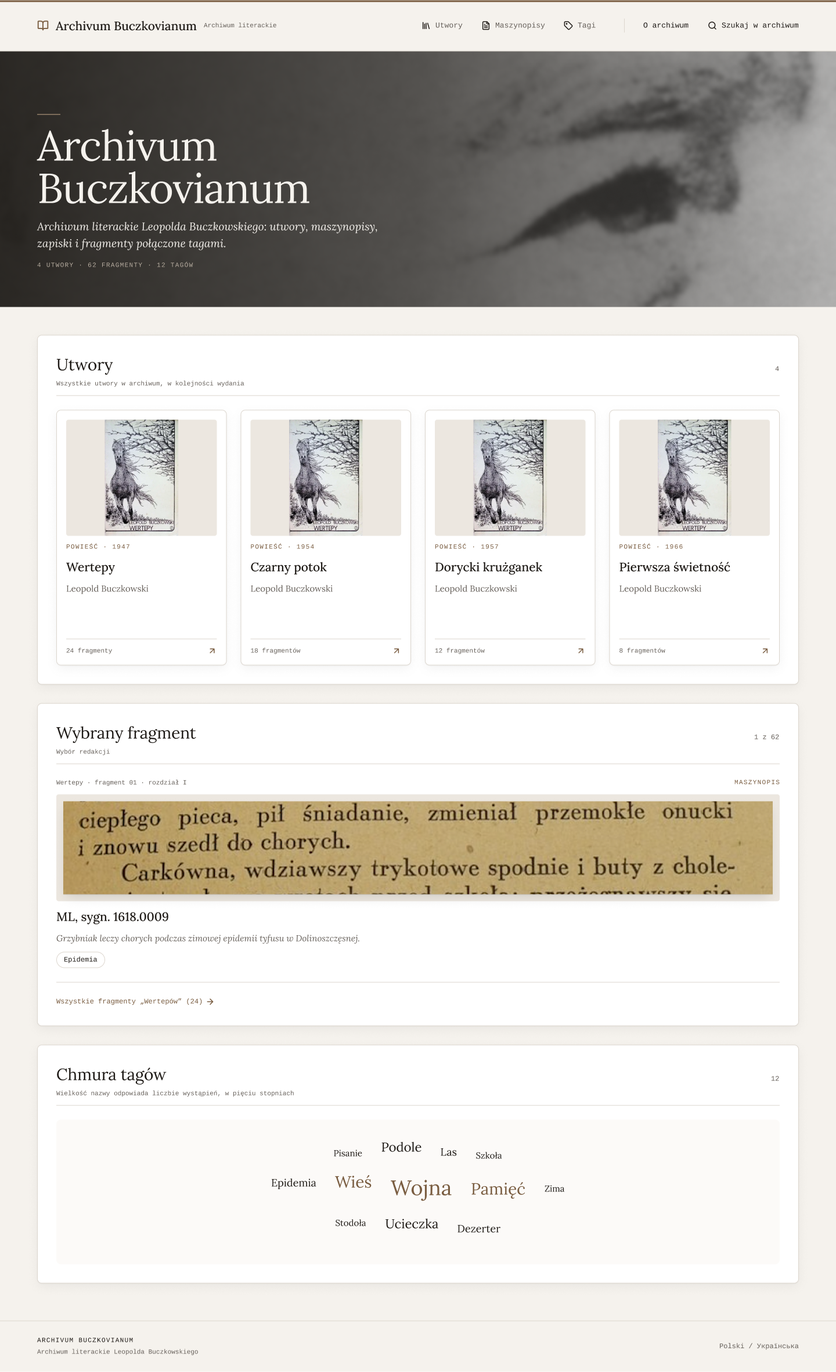
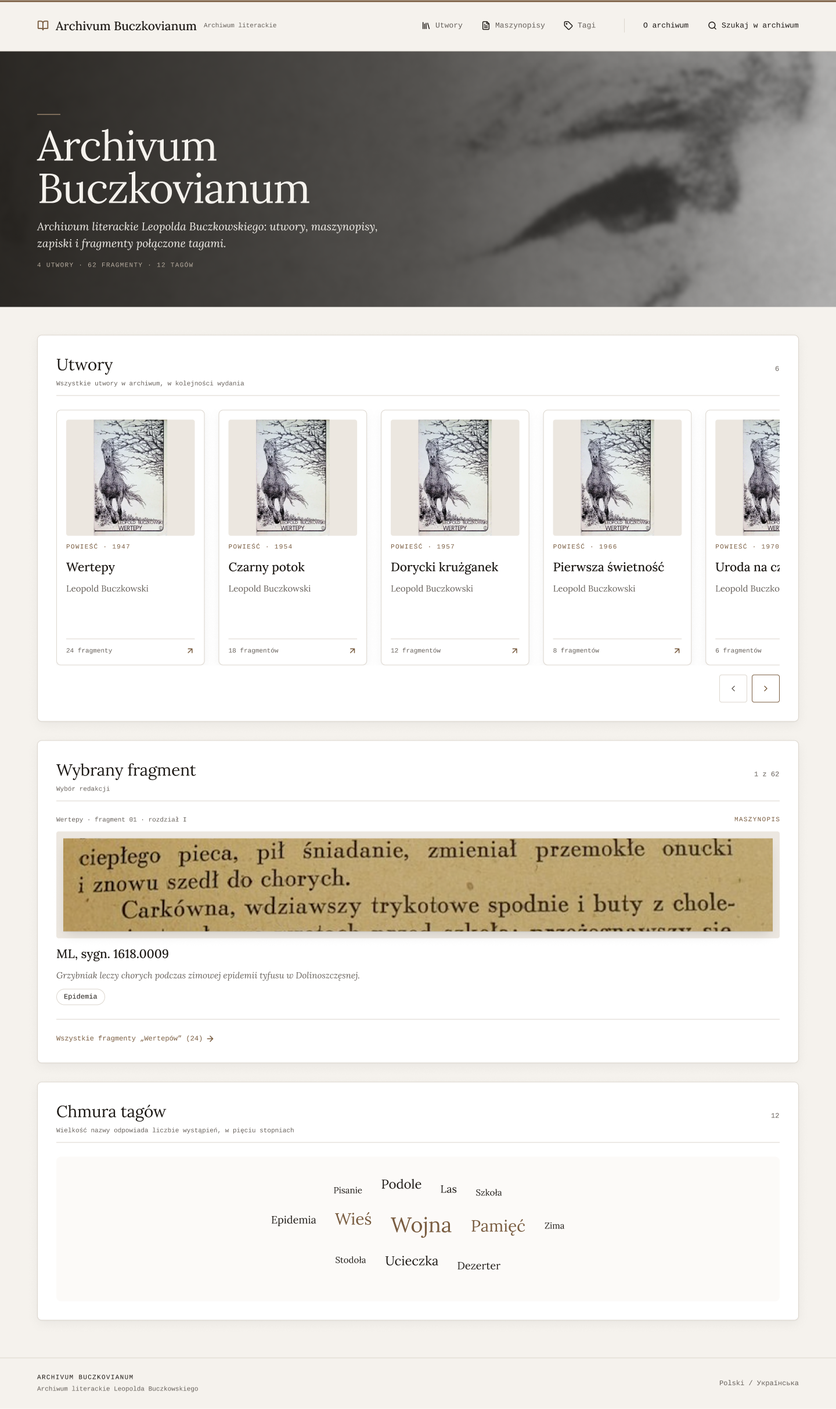
ARC-20: works carousel on the home page
The home page's works are one row that scrolls sideways, with 1.5 cards
in view on a phone and 4.5 on a desktop (2.5 from sm, 3.5 from lg), so
the cut-off card shows there are more. Arrows under the row scroll by
the whole cards in view; each is disabled at its end of the row, and
both are hidden when every card fits. The works list keeps its grid.

Design re-exported from Figma: the carousel and its arrows on
"Strona główna", and a new "Strona główna (mobile)" screen.

diff --git a/frontend/src/components/WorkCarousel.tsx b/frontend/src/components/WorkCarousel.tsx
@@ -1,0 +1,109 @@
+import { useEffect, useRef, useState } from "react";
+
+import { ChevronLeftIcon, ChevronRightIcon } from "@/components/icons";
+import { type Work, WorkCard } from "@/components/WorkCard";
+import { copy } from "@/copy/pl";
+import { cn } from "@/lib/utils";
+
+const ARROW = cn(
+  "flex size-48 items-center justify-center rounded-sm border border-accent-border bg-card text-accent-icon",
+  "transition-colors duration-150 ease-out enabled:hover:bg-accent motion-reduce:transition-none",
+  "focus-visible:outline-2 focus-visible:outline-offset-2 focus-visible:outline-ring",
+  "disabled:border-border disabled:text-muted-foreground",
+);
+
+/**
+ * "Karuzela utworów" in design/screens/strona-glowna.md (ARC-20): one row of work cards that
+ * scrolls sideways, with 1.5 cards in view on a phone and 4.5 on a desktop, so the cut-off card
+ * shows there are more. The arrows below scroll by the whole cards in view; each is disabled at
+ * its end of the row, and both are hidden when every card fits. The list's padding, taken back
+ * by negative margins, keeps the hover lift and the focus ring inside the scroll area; at the
+ * bottom it reaches the section card's edge, so the hover shadow is not cut short.
+ */
+export function WorkCarousel({ works }: { works: Work[] }) {
+  const listRef = useRef<HTMLUListElement>(null);
+  const [edges, setEdges] = useState({ start: true, end: true });
+
+  useEffect(() => {
+    const list = listRef.current;
+    if (list === null) {
+      return;
+    }
+    const update = () => {
+      setEdges({
+        start: list.scrollLeft <= 0,
+        end: list.scrollLeft + list.clientWidth >= list.scrollWidth - 1,
+      });
+    };
+    update();
+    list.addEventListener("scroll", update, { passive: true });
+    window.addEventListener("resize", update);
+    return () => {
+      list.removeEventListener("scroll", update);
+      window.removeEventListener("resize", update);
+    };
+  }, [works]);
+
+  const scroll = (direction: 1 | -1) => {
+    const list = listRef.current;
+    const card = list?.firstElementChild;
+    if (list == null || card == null) {
+      return;
+    }
+    const gap = parseFloat(getComputedStyle(list).columnGap) || 0;
+    const step = card.getBoundingClientRect().width + gap;
+    const cards = Math.max(1, Math.floor(list.clientWidth / step));
+    list.scrollBy({ left: direction * cards * step });
+  };
+
+  return (
+    <div className="flex flex-col gap-16">
+      <ul
+        ref={listRef}
+        data-slot="work-carousel"
+        className={cn(
+          "flex snap-x snap-mandatory scroll-smooth gap-(--gap) overflow-x-auto motion-reduce:scroll-auto",
+          "-mx-4 -mt-8 -mb-card-mobile scroll-px-4 px-4 pt-8 pb-card-mobile md:-mb-card md:pb-card",
+          "[--gap:var(--spacing-16)] [--visible:1.5] sm:[--visible:2.5] md:[--gap:var(--spacing-24)] lg:[--visible:3.5] xl:[--visible:4.5]",
+        )}
+      >
+        {works.map((work) => (
+          // Each card takes its share of the row, so the next one always shows by half.
+          <li
+            key={work.slug}
+            className="shrink-0 snap-start basis-[calc((100%-(var(--visible)-0.5)*var(--gap))/var(--visible))]"
+          >
+            <WorkCard work={work} />
+          </li>
+        ))}
+      </ul>
+      {!(edges.start && edges.end) && (
+        // Relative, so the arrows paint over the list's bottom padding, kept for the hover shadow.
+        <div className="relative flex justify-end gap-8">
+          <button
+            type="button"
+            className={ARROW}
+            aria-label={copy.workCarousel.previous}
+            disabled={edges.start}
+            onClick={() => {
+              scroll(-1);
+            }}
+          >
+            <ChevronLeftIcon className="size-16" />
+          </button>
+          <button
+            type="button"
+            className={ARROW}
+            aria-label={copy.workCarousel.next}
+            disabled={edges.end}
+            onClick={() => {
+              scroll(1);
+            }}
+          >
+            <ChevronRightIcon className="size-16" />
+          </button>
+        </div>
+      )}
+    </div>
+  );
+}

diff --git a/frontend/src/components/WorkCarousel.test.tsx b/frontend/src/components/WorkCarousel.test.tsx
@@ -1,0 +1,92 @@
+import { fireEvent, render, screen } from "@testing-library/react";
+import { MemoryRouter } from "react-router";
+import { describe, expect, it, vi } from "vitest";
+
+import type { Work } from "@/components/WorkCard";
+import { WorkCarousel } from "@/components/WorkCarousel";
+import { axeViolations } from "@/test/render";
+
+const WORKS: Work[] = ["Wertepy", "Czarny potok", "Dorycki krużganek"].map((title, index) => ({
+  slug: `utwor-${String(index)}`,
+  title,
+  year: 1947 + index,
+  cover_image: "",
+  cover_image_alt: "",
+  fragment_count: 0,
+}));
+
+function renderCarousel() {
+  return render(
+    <MemoryRouter>
+      <WorkCarousel works={WORKS} />
+    </MemoryRouter>,
+  );
+}
+
+/** jsdom lays nothing out, so the row's size, scroll position and card width are set here. */
+function layOut(list: HTMLElement, { scrollLeft = 0, clientWidth = 450 } = {}) {
+  Object.defineProperty(list, "scrollWidth", { configurable: true, value: 1000 });
+  Object.defineProperty(list, "clientWidth", { configurable: true, value: clientWidth });
+  list.scrollLeft = scrollLeft;
+  const card = list.firstElementChild;
+  if (card !== null) {
+    vi.spyOn(card, "getBoundingClientRect").mockReturnValue(new DOMRect(0, 0, 200, 440));
+  }
+  const scrollBy = vi.fn();
+  list.scrollBy = scrollBy;
+  fireEvent.scroll(list);
+  return scrollBy;
+}
+
+describe("WorkCarousel", () => {
+  it("ARC-20: the works are one scrolling row, 1.5 cards in view on a phone and 4.5 on a desktop", () => {
+    renderCarousel();
+
+    const list = screen.getByRole("list");
+    expect(list).toHaveClass("flex", "overflow-x-auto", "snap-x", "snap-mandatory");
+    expect(list).toHaveClass("[--visible:1.5]", "xl:[--visible:4.5]");
+    for (const item of screen.getAllByRole("listitem")) {
+      expect(item).toHaveClass("shrink-0", "snap-start");
+    }
+  });
+
+  it("ARC-20: shows no arrows when every work fits", () => {
+    renderCarousel();
+
+    expect(screen.queryByRole("button")).not.toBeInTheDocument();
+  });
+
+  it("ARC-20: at the start the previous arrow is disabled and the next one scrolls by the whole cards in view", async () => {
+    const { container } = renderCarousel();
+    const scrollBy = layOut(screen.getByRole("list"));
+
+    expect(screen.getByRole("button", { name: "Poprzednie utwory" })).toBeDisabled();
+    fireEvent.click(screen.getByRole("button", { name: "Następne utwory" }));
+    // Two 200 px cards fit in 450 px.
+    expect(scrollBy).toHaveBeenCalledWith({ left: 400 });
+    expect(await axeViolations(container)).toEqual([]);
+  });
+
+  it("ARC-20: at the end the next arrow is disabled and the previous one scrolls back", () => {
+    renderCarousel();
+    const scrollBy = layOut(screen.getByRole("list"), { scrollLeft: 550 });
+
+    expect(screen.getByRole("button", { name: "Następne utwory" })).toBeDisabled();
+    fireEvent.click(screen.getByRole("button", { name: "Poprzednie utwory" }));
+    expect(scrollBy).toHaveBeenCalledWith({ left: -400 });
+  });
+
+  it("ARC-20: a narrow row scrolls by one card, and the arrows follow a window resize", () => {
+    renderCarousel();
+    const list = screen.getByRole("list");
+    const scrollBy = layOut(list, { scrollLeft: 100, clientWidth: 150 });
+
+    fireEvent.click(screen.getByRole("button", { name: "Następne utwory" }));
+    expect(scrollBy).toHaveBeenCalledWith({ left: 200 });
+
+    Object.defineProperty(list, "clientWidth", { configurable: true, value: 1000 });
+    list.scrollLeft = 0;
+    fireEvent(window, new Event("resize"));
+    expect(screen.queryByRole("button")).not.toBeInTheDocument();
+  });
+});

diff --git a/frontend/src/pages/HomePage.tsx b/frontend/src/pages/HomePage.tsx
@@ -8,7 +8,7 @@ import { RichText } from "@/components/RichText";
 import { SectionHeader } from "@/components/SectionHeader";
 import { TagCloud } from "@/components/TagCloud";
 import { Card } from "@/components/ui/card";
-import { WorkCard } from "@/components/WorkCard";
+import { WorkCarousel } from "@/components/WorkCarousel";
 import { copy, formatCount, nouns, previewCount } from "@/copy/pl";
 import { api } from "@/lib/api";
 import { browseUrl, NEW_SEARCH } from "@/lib/search";
@@ -116,13 +116,7 @@ export function HomePage() {
                   count={String(data.works.length)}
                   description={copy.home.worksDescription}
                 />
-                <ul className="grid auto-rows-fr grid-cols-1 gap-24 sm:grid-cols-2 lg:grid-cols-4">
-                  {data.works.map((work) => (
-                    <li key={work.slug}>
-                      <WorkCard work={work} />
-                    </li>
-                  ))}
-                </ul>
+                <WorkCarousel works={data.works} />
               </Card>
             )}
             {data.featured !== null && (

diff --git a/frontend/src/components/icons.tsx b/frontend/src/components/icons.tsx
@@ -69,6 +69,16 @@ export function ImageIcon(props: IconProps) {
   );
 }
 
+/** design/assets/icons/wstecz.svg */
+export function ChevronLeftIcon(props: IconProps) {
+  return <Icon {...props} paths={["M10 12L6 8L10 4"]} />;
+}
+
+/** design/assets/icons/dalej.svg */
+export function ChevronRightIcon(props: IconProps) {
+  return <Icon {...props} paths={["M6 12L10 8L6 4"]} />;
+}
+
 /** design/assets/icons/strzalka-prawo.svg */
 export function ArrowRightIcon(props: IconProps) {
   return <Icon {...props} paths={["M3.33337 8H12.6667", "M8 3.33334L12.6667 8L8 12.6667"]} />;

diff --git a/frontend/src/copy/pl.ts b/frontend/src/copy/pl.ts
@@ -86,6 +86,11 @@ export const copy = {
     /** The placeholder board for a work without a cover (plan D25, design/rules.md). */
     coverPlaceholder: "[Okładka]",
   },
+  /** The arrows of the works carousel on the home page (ARC-20). */
+  workCarousel: {
+    previous: "Poprzednie utwory",
+    next: "Następne utwory",
+  },
   /** The home page (US-RA-01). */
   home: {
     works: "Utwory",

diff --git a/design/screens/strona-glowna-mobile.md b/design/screens/strona-glowna-mobile.md
@@ -1,0 +1,63 @@
+# Strona główna (mobile)
+
+Viewport: mobile, 390px wide. Preview: `../previews/screens/strona-glowna-mobile.png`
+
+- box "Strona główna (mobile)" · flex-column · gap 0px · 390px × 2186px · bg var(--color-bg-page)
+  - **Nagłówek serwisu [Rozmiar=Mobile]** {Rozmiar=“Mobile”} · flex-row · padding 0px var(--layout-page-margin-mobile) 0px var(--layout-page-margin-mobile) · justify space-between · align center · w fill, h 64px · bg var(--color-bg-page) · border-bottom 1px var(--color-border-subtle)
+  - box "Nagłówek strony głównej" · flex-row · gap 0px · padding var(--space-64) var(--layout-page-margin-mobile) var(--space-24) var(--layout-page-margin-mobile) · align end · w fill, h hug · bg linear-gradient(#211e1af0 0%, #211e1ab8 50%, #211e1a33 100%) over image(assets/images/naglowek-strony-glownej-642bf583.*, crop) over var(--color-bg-inverse)
+    - box "Wprowadzenie" · flex-column · gap var(--space-16) · w fill, h hug
+      - box "Ornament" · w 40px, h 1px · bg var(--color-border-accent-inverse) · overflow hidden
+      - text "Tytuł" · w fill, h hug · .text-lora-tytul-strony-mobile · color var(--color-text-inverse) · “Archivum Buczkovianum”
+      - text "Opis" · w fill, h hug · .text-lora-glosa · color var(--color-text-inverse) · “Archiwum literackie Leopolda Buczkowskiego: utwory, maszynopisy, zapiski i fragmenty połączone tagami.”
+      - text "Statystyki" · w fill, h hug · .text-cousine-etykieta · color var(--color-text-inverse-secondary) · “4 utwory · 62 fragmenty · 12 tagów”
+  - box "Treść" · flex-column · gap var(--space-32) · padding var(--space-24) var(--layout-page-margin-mobile) var(--space-24) var(--layout-page-margin-mobile) · w fill, h hug
+    - box "Utwory" · flex-column · gap var(--space-24) · padding var(--layout-card-padding-mobile) · w fill, h hug · bg var(--color-bg-card) · border 1px var(--color-border-subtle) · radius var(--radius-m) · shadow var(--shadow-karta)
+      - **Nagłówek sekcji** {Pokaż licznik=true, Pokaż opis=true, Opis=“Wszystkie utwory w archiwum, w kolejności wydania”, Licznik=“6”, Tytuł=“Utwory”} · flex-column · gap var(--space-8) · padding 0px 0px var(--space-12) 0px · w fill, h hug · border-bottom 1px var(--color-border-subtle)
+      - box "Karuzela ze strzałkami" · flex-column · gap var(--space-16) · w fill, h hug
+        - box "Karuzela utworów" · flex-row · gap var(--space-16) · w fill, h hug · overflow hidden
+          - **Karta utworu [Stan=Domyślny]** {Fragmenty=“24 fragmenty”, Autor=“Leopold Buczkowski”, Tytuł=“Wertepy”, Kategoria i rok=“Powieść · 1947”, Stan=“Domyślny”} · flex-column · gap var(--space-12) · padding var(--space-16) · w 205.33px, h 440px · bg var(--color-bg-card) · border 1px var(--color-border-subtle) · radius var(--radius-m) · shadow var(--shadow-karta)
+          - **Karta utworu [Stan=Domyślny]** {Fragmenty=“18 fragmentów”, Autor=“Leopold Buczkowski”, Tytuł=“Czarny potok”, Kategoria i rok=“Powieść · 1954”, Stan=“Domyślny”} · flex-column · gap var(--space-12) · padding var(--space-16) · w 205.33px, h 440px · bg var(--color-bg-card) · border 1px var(--color-border-subtle) · radius var(--radius-m) · shadow var(--shadow-karta)
+          - **Karta utworu [Stan=Domyślny]** {Fragmenty=“12 fragmentów”, Autor=“Leopold Buczkowski”, Tytuł=“Dorycki krużganek”, Kategoria i rok=“Powieść · 1957”, Stan=“Domyślny”} · flex-column · gap var(--space-12) · padding var(--space-16) · w 205.33px, h 440px · bg var(--color-bg-card) · border 1px var(--color-border-subtle) · radius var(--radius-m) · shadow var(--shadow-karta)
+          - **Karta utworu [Stan=Domyślny]** {Fragmenty=“8 fragmentów”, Autor=“Leopold Buczkowski”, Tytuł=“Pierwsza świetność”, Kategoria i rok=“Powieść · 1966”, Stan=“Domyślny”} · flex-column · gap var(--space-12) · padding var(--space-16) · w 205.33px, h 440px · bg var(--color-bg-card) · border 1px var(--color-border-subtle) · radius var(--radius-m) · shadow var(--shadow-karta)
+          - **Karta utworu [Stan=Domyślny]** {Fragmenty=“6 fragmentów”, Autor=“Leopold Buczkowski”, Tytuł=“Uroda na czasie”, Kategoria i rok=“Powieść · 1970”, Stan=“Domyślny”} · flex-column · gap var(--space-12) · padding var(--space-16) · w 205.33px, h 440px · bg var(--color-bg-card) · border 1px var(--color-border-subtle) · radius var(--radius-m) · shadow var(--shadow-karta)
+          - **Karta utworu [Stan=Domyślny]** {Fragmenty=“4 fragmenty”, Autor=“Leopold Buczkowski”, Tytuł=“Oficer na nieszczęście”, Kategoria i rok=“Powieść · 1975”, Stan=“Domyślny”} · flex-column · gap var(--space-12) · padding var(--space-16) · w 205.33px, h 440px · bg var(--color-bg-card) · border 1px var(--color-border-subtle) · radius var(--radius-m) · shadow var(--shadow-karta)
+        - box "Strzałki karuzeli" · flex-row · gap var(--space-8) · justify end · w fill, h hug · overflow hidden
+          - box "Strzałka / Wstecz (nieaktywna)" · flex-row · gap 0px · justify center · align center · w 48px, h 48px · bg var(--color-bg-card) · border 1px var(--color-border-subtle) · radius var(--radius-s) · overflow hidden
+            - **Ikona/wstecz** · w 16px, h 16px
+          - box "Strzałka / Dalej" · flex-row · gap 0px · justify center · align center · w 48px, h 48px · bg var(--color-bg-card) · border 1px var(--color-border-accent) · radius var(--radius-s) · overflow hidden
+            - **Ikona/dalej** · w 16px, h 16px
+    - box "Wybrany fragment" · flex-column · gap var(--space-24) · padding var(--layout-card-padding-mobile) · w fill, h hug · bg var(--color-bg-card) · border 1px var(--color-border-subtle) · radius var(--radius-m) · shadow var(--shadow-karta)
+      - **Nagłówek sekcji** {Pokaż licznik=true, Pokaż opis=true, Opis=“Wybór redakcji”, Licznik=“1 z 62”, Tytuł=“Wybrany fragment”} · flex-column · gap var(--space-8) · padding 0px 0px var(--space-12) 0px · w fill, h hug · border-bottom 1px var(--color-border-subtle)
+      - **Fragment / Maszynopis** {Pokaż tagi=true, Opis=“Grzybniak leczy chorych podczas zimowej epidemii tyfusu w Dolinoszczęsnej.”, Sygnatura=“ML, sygn. 1618.0009”, Pozycja=“Wertepy · fragment 01 · rozdział I”} · flex-column · gap var(--space-12) · padding 0px 0px var(--space-24) 0px · w fill, h hug · border-bottom 1px var(--color-border-subtle)
+      - **Link ze strzałką [Stan=Domyślny]** {Etykieta=“Wszystkie fragmenty „Wertepów” (24)”, Stan=“Domyślny”} · flex-row · gap var(--space-4) · align center · w hug, h hug
+    - box "Chmura tagów" · flex-column · gap var(--space-24) · padding var(--layout-card-padding-mobile) · w fill, h hug · bg var(--color-bg-card) · border 1px var(--color-border-subtle) · radius var(--radius-m) · shadow var(--shadow-karta)
+      - **Nagłówek sekcji** {Pokaż licznik=true, Pokaż opis=true, Opis=“Wielkość nazwy odpowiada liczbie wystąpień, w pięciu stopniach”, Licznik=“12”, Tytuł=“Chmura tagów”} · flex-column · gap var(--space-8) · padding 0px 0px var(--space-12) 0px · w fill, h hug · border-bottom 1px var(--color-border-subtle)
+      - box "Chmura" · flex-column · gap var(--space-4) · padding var(--space-16) · align center · w fill, h hug · bg var(--color-bg-subtle) · radius var(--radius-m)
+        - box "Rząd chmury" · flex-row wrap · gap var(--space-16) · justify center · w fill, h hug
+          - box "Tag / Pisanie (3)" · flex-column · gap 0px · padding 16px 0px 8px 0px · w hug, h hug
+            - text "Pisanie" · .text-chmura-tagow-1 · color var(--color-text-primary) · “Pisanie”
+          - box "Tag / Podole (15)" · flex-column · gap 0px · padding 0px 0px 24px 0px · w hug, h hug
+            - text "Podole" · .text-chmura-tagow-3 · color var(--color-text-primary) · “Podole”
+          - box "Tag / Las (6)" · flex-column · gap 0px · padding 12px 0px 12px 0px · w hug, h hug
+            - text "Las" · .text-chmura-tagow-2 · color var(--color-text-primary) · “Las”
+          - box "Tag / Szkoła (3)" · flex-column · gap 0px · padding 20px 0px 4px 0px · w hug, h hug
+            - text "Szkoła" · .text-chmura-tagow-1 · color var(--color-text-primary) · “Szkoła”
+        - box "Rząd chmury" · flex-row wrap · gap var(--space-16) · justify center · w fill, h hug
+          - box "Tag / Epidemia (7)" · flex-column · gap 0px · padding 8px 0px 16px 0px · w hug, h hug
+            - text "Epidemia" · .text-chmura-tagow-2 · color var(--color-text-primary) · “Epidemia”
+          - box "Tag / Wieś (24)" · flex-column · gap 0px · padding 0px 0px 24px 0px · w hug, h hug
+            - text "Wieś" · .text-chmura-tagow-4 · color var(--color-text-accent) · “Wieś”
+          - box "Tag / Wojna (31)" · flex-column · gap 0px · padding 4px 0px 20px 0px · w hug, h hug
+            - text "Wojna" · .text-chmura-tagow-5 · color var(--color-text-accent) · “Wojna”
+          - box "Tag / Pamięć (18)" · flex-column · gap 0px · padding 12px 0px 12px 0px · w hug, h hug
+            - text "Pamięć" · .text-chmura-tagow-4 · color var(--color-text-accent) · “Pamięć”
+          - box "Tag / Zima (2)" · flex-column · gap 0px · padding 20px 0px 4px 0px · w hug, h hug
+            - text "Zima" · .text-chmura-tagow-1 · color var(--color-text-primary) · “Zima”
+        - box "Rząd chmury" · flex-row wrap · gap var(--space-16) · justify center · w fill, h hug
+          - box "Tag / Stodoła (2)" · flex-column · gap 0px · padding 4px 0px 20px 0px · w hug, h hug
+            - text "Stodoła" · .text-chmura-tagow-1 · color var(--color-text-primary) · “Stodoła”
+          - box "Tag / Ucieczka (11)" · flex-column · gap 0px · padding 0px 0px 24px 0px · w hug, h hug
+            - text "Ucieczka" · .text-chmura-tagow-3 · color var(--color-text-primary) · “Ucieczka”
+          - box "Tag / Dezerter (4)" · flex-column · gap 0px · padding 12px 0px 12px 0px · w hug, h hug
+            - text "Dezerter" · .text-chmura-tagow-2 · color var(--color-text-primary) · “Dezerter”
+  - **Stopka [Rozmiar=Mobile]** {Rozmiar=“Mobile”} · flex-column · gap 0px · w fill, h hug · bg var(--color-bg-page) · border-top 1px var(--color-border-subtle)

diff --git a/design/screens/strona-glowna.md b/design/screens/strona-glowna.md
@@ -2,7 +2,7 @@
 
 Viewport: desktop, 1440px wide. Preview: `../previews/screens/strona-glowna.png`
 
-- box "Strona główna" · flex-column · gap 0px · 1440px × 2361px · bg var(--color-bg-page)
+- box "Strona główna" · flex-column · gap 0px · 1440px × 2425px · bg var(--color-bg-page)
   - **Nagłówek serwisu [Rozmiar=Desktop]** {Rozmiar=“Desktop”} · flex-row · padding 0px var(--layout-page-margin) 0px var(--layout-page-margin) · justify space-between · align center · w fill, h 88px · bg var(--color-bg-page) · border-bottom 1px var(--color-border-subtle)
   - box "Nagłówek strony głównej" · flex-row · gap 0px · padding var(--space-64) var(--layout-page-margin) var(--space-64) var(--layout-page-margin) · align end · w fill, h 440px · bg linear-gradient(#211e1af0 0%, #211e1ab8 50%, #211e1a33 100%) over image(assets/images/naglowek-strony-glownej-642bf583.*, crop) over var(--color-bg-inverse)
     - box "Wprowadzenie" · flex-column · gap var(--space-16) · w 640px, h hug
@@ -12,12 +12,20 @@ Viewport: desktop, 1440px wide. Preview: `../previews/screens/strona-glowna.png`
       - text "Statystyki" · w fill, h hug · .text-cousine-etykieta · color var(--color-text-inverse-secondary) · “4 utwory · 62 fragmenty · 12 tagów”
   - box "Treść" · flex-column · gap var(--space-32) · padding var(--space-48) var(--layout-page-margin) var(--space-64) var(--layout-page-margin) · w fill, h hug
     - box "Utwory" · flex-column · gap var(--space-24) · padding var(--layout-card-padding) · w fill, h hug · bg var(--color-bg-card) · border 1px var(--color-border-subtle) · radius var(--radius-m) · shadow var(--shadow-karta)
-      - **Nagłówek sekcji** {Pokaż licznik=true, Pokaż opis=true, Opis=“Wszystkie utwory w archiwum, w kolejności wydania”, Licznik=“4”, Tytuł=“Utwory”} · flex-column · gap var(--space-8) · padding 0px 0px var(--space-12) 0px · w fill, h hug · border-bottom 1px var(--color-border-subtle)
-      - box "Siatka utworów" · flex-row · gap var(--space-24) · w fill, h hug
-        - **Karta utworu [Stan=Domyślny]** {Fragmenty=“24 fragmenty”, Autor=“Leopold Buczkowski”, Tytuł=“Wertepy”, Kategoria i rok=“Powieść · 1947”, Stan=“Domyślny”} · flex-column · gap var(--space-12) · padding var(--space-16) · w fill, h 440px · bg var(--color-bg-card) · border 1px var(--color-border-subtle) · radius var(--radius-m) · shadow var(--shadow-karta)
-        - **Karta utworu [Stan=Domyślny]** {Fragmenty=“18 fragmentów”, Autor=“Leopold Buczkowski”, Tytuł=“Czarny potok”, Kategoria i rok=“Powieść · 1954”, Stan=“Domyślny”} · flex-column · gap var(--space-12) · padding var(--space-16) · w fill, h 440px · bg var(--color-bg-card) · border 1px var(--color-border-subtle) · radius var(--radius-m) · shadow var(--shadow-karta)
-        - **Karta utworu [Stan=Domyślny]** {Fragmenty=“12 fragmentów”, Autor=“Leopold Buczkowski”, Tytuł=“Dorycki krużganek”, Kategoria i rok=“Powieść · 1957”, Stan=“Domyślny”} · flex-column · gap var(--space-12) · padding var(--space-16) · w fill, h 440px · bg var(--color-bg-card) · border 1px var(--color-border-subtle) · radius var(--radius-m) · shadow var(--shadow-karta)
-        - **Karta utworu [Stan=Domyślny]** {Fragmenty=“8 fragmentów”, Autor=“Leopold Buczkowski”, Tytuł=“Pierwsza świetność”, Kategoria i rok=“Powieść · 1966”, Stan=“Domyślny”} · flex-column · gap var(--space-12) · padding var(--space-16) · w fill, h 440px · bg var(--color-bg-card) · border 1px var(--color-border-subtle) · radius var(--radius-m) · shadow var(--shadow-karta)
+      - **Nagłówek sekcji** {Pokaż licznik=true, Pokaż opis=true, Opis=“Wszystkie utwory w archiwum, w kolejności wydania”, Licznik=“6”, Tytuł=“Utwory”} · flex-column · gap var(--space-8) · padding 0px 0px var(--space-12) 0px · w fill, h hug · border-bottom 1px var(--color-border-subtle)
+      - box "Karuzela ze strzałkami" · flex-column · gap var(--space-16) · w fill, h hug
+        - box "Karuzela utworów" · flex-row · gap var(--space-24) · w fill, h hug · overflow hidden
+          - **Karta utworu [Stan=Domyślny]** {Fragmenty=“24 fragmenty”, Autor=“Leopold Buczkowski”, Tytuł=“Wertepy”, Kategoria i rok=“Powieść · 1947”, Stan=“Domyślny”} · flex-column · gap var(--space-12) · padding var(--space-16) · w 255.56px, h 440px · bg var(--color-bg-card) · border 1px var(--color-border-subtle) · radius var(--radius-m) · shadow var(--shadow-karta)
+          - **Karta utworu [Stan=Domyślny]** {Fragmenty=“18 fragmentów”, Autor=“Leopold Buczkowski”, Tytuł=“Czarny potok”, Kategoria i rok=“Powieść · 1954”, Stan=“Domyślny”} · flex-column · gap var(--space-12) · padding var(--space-16) · w 255.56px, h 440px · bg var(--color-bg-card) · border 1px var(--color-border-subtle) · radius var(--radius-m) · shadow var(--shadow-karta)
+          - **Karta utworu [Stan=Domyślny]** {Fragmenty=“12 fragmentów”, Autor=“Leopold Buczkowski”, Tytuł=“Dorycki krużganek”, Kategoria i rok=“Powieść · 1957”, Stan=“Domyślny”} · flex-column · gap var(--space-12) · padding var(--space-16) · w 255.56px, h 440px · bg var(--color-bg-card) · border 1px var(--color-border-subtle) · radius var(--radius-m) · shadow var(--shadow-karta)
+          - **Karta utworu [Stan=Domyślny]** {Fragmenty=“8 fragmentów”, Autor=“Leopold Buczkowski”, Tytuł=“Pierwsza świetność”, Kategoria i rok=“Powieść · 1966”, Stan=“Domyślny”} · flex-column · gap var(--space-12) · padding var(--space-16) · w 255.56px, h 440px · bg var(--color-bg-card) · border 1px var(--color-border-subtle) · radius var(--radius-m) · shadow var(--shadow-karta)
+          - **Karta utworu [Stan=Domyślny]** {Fragmenty=“6 fragmentów”, Autor=“Leopold Buczkowski”, Tytuł=“Uroda na czasie”, Kategoria i rok=“Powieść · 1970”, Stan=“Domyślny”} · flex-column · gap var(--space-12) · padding var(--space-16) · w 255.56px, h 440px · bg var(--color-bg-card) · border 1px var(--color-border-subtle) · radius var(--radius-m) · shadow var(--shadow-karta)
+          - **Karta utworu [Stan=Domyślny]** {Fragmenty=“4 fragmenty”, Autor=“Leopold Buczkowski”, Tytuł=“Oficer na nieszczęście”, Kategoria i rok=“Powieść · 1975”, Stan=“Domyślny”} · flex-column · gap var(--space-12) · padding var(--space-16) · w 255.56px, h 440px · bg var(--color-bg-card) · border 1px var(--color-border-subtle) · radius var(--radius-m) · shadow var(--shadow-karta)
+        - box "Strzałki karuzeli" · flex-row · gap var(--space-8) · justify end · w fill, h hug · overflow hidden
+          - box "Strzałka / Wstecz (nieaktywna)" · flex-row · gap 0px · justify center · align center · w 48px, h 48px · bg var(--color-bg-card) · border 1px var(--color-border-subtle) · radius var(--radius-s) · overflow hidden
+            - **Ikona/wstecz** · w 16px, h 16px
+          - box "Strzałka / Dalej" · flex-row · gap 0px · justify center · align center · w 48px, h 48px · bg var(--color-bg-card) · border 1px var(--color-border-accent) · radius var(--radius-s) · overflow hidden
+            - **Ikona/dalej** · w 16px, h 16px
     - box "Wybrany fragment" · flex-column · gap var(--space-24) · padding var(--layout-card-padding) · w fill, h hug · bg var(--color-bg-card) · border 1px var(--color-border-subtle) · radius var(--radius-m) · shadow var(--shadow-karta)
       - **Nagłówek sekcji** {Pokaż licznik=true, Pokaż opis=true, Opis=“Wybór redakcji”, Licznik=“1 z 62”, Tytuł=“Wybrany fragment”} · flex-column · gap var(--space-8) · padding 0px 0px var(--space-12) 0px · w fill, h hug · border-bottom 1px var(--color-border-subtle)
       - **Fragment / Maszynopis** {Pokaż tagi=true, Opis=“Grzybniak leczy chorych podczas zimowej epidemii tyfusu w Dolinoszczęsnej.”, Sygnatura=“ML, sygn. 1618.0009”, Pozycja=“Wertepy · fragment 01 · rozdział I”} · flex-column · gap var(--space-12) · padding 0px 0px var(--space-24) 0px · w fill, h hug · border-bottom 1px var(--color-border-subtle)

diff --git a/design/README.md b/design/README.md
@@ -75,3 +75,4 @@ Generated from the Figma file "archiwum buczkowski model" (page "po korekcie") b
 - [Wyszukiwanie — wyniki (mobile)](screens/wyszukiwanie-wyniki-mobile.md) (mobile)
 - [Wyszukiwanie — panel filtrów (mobile)](screens/wyszukiwanie-panel-filtrow-mobile.md) (mobile)
 - [Bibliografia — Wertepy (mobile)](screens/bibliografia-wertepy-mobile.md) (mobile)
+- [Strona główna (mobile)](screens/strona-glowna-mobile.md) (mobile)
